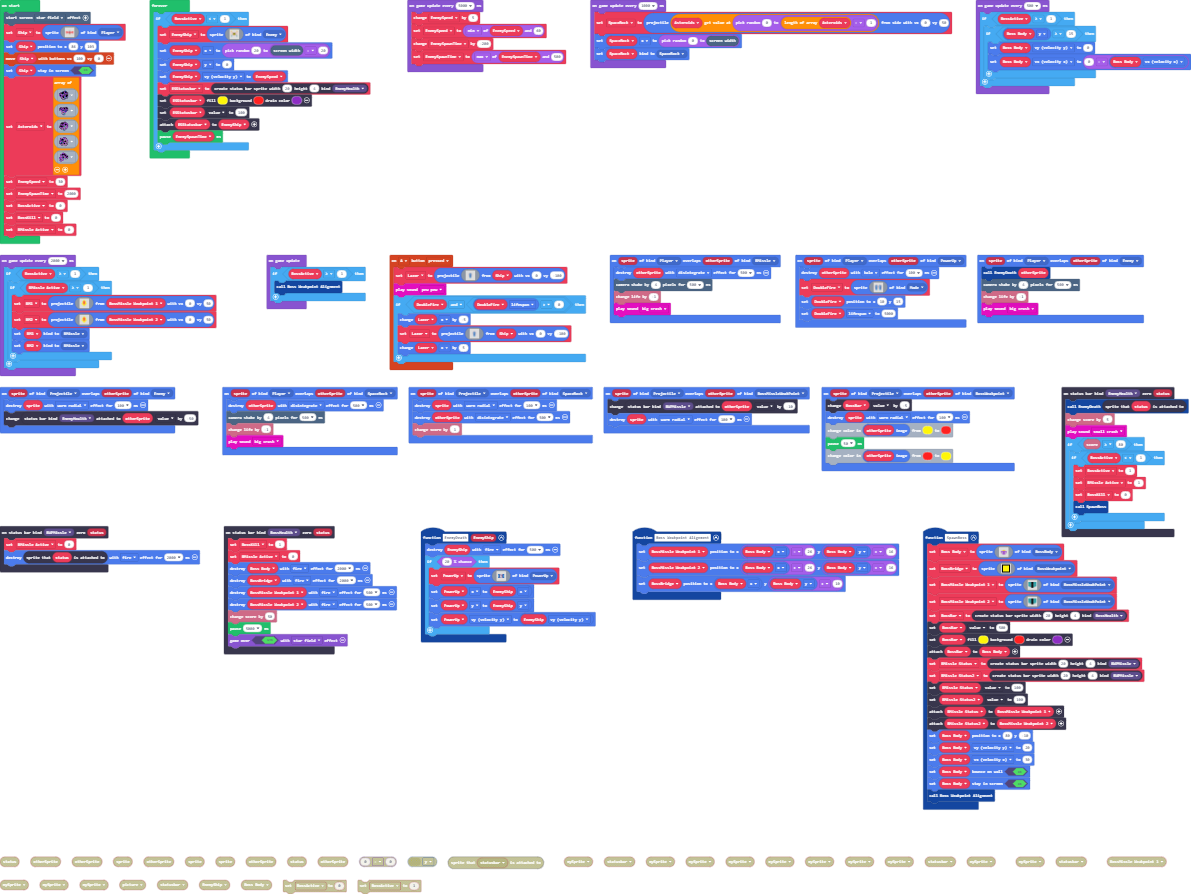
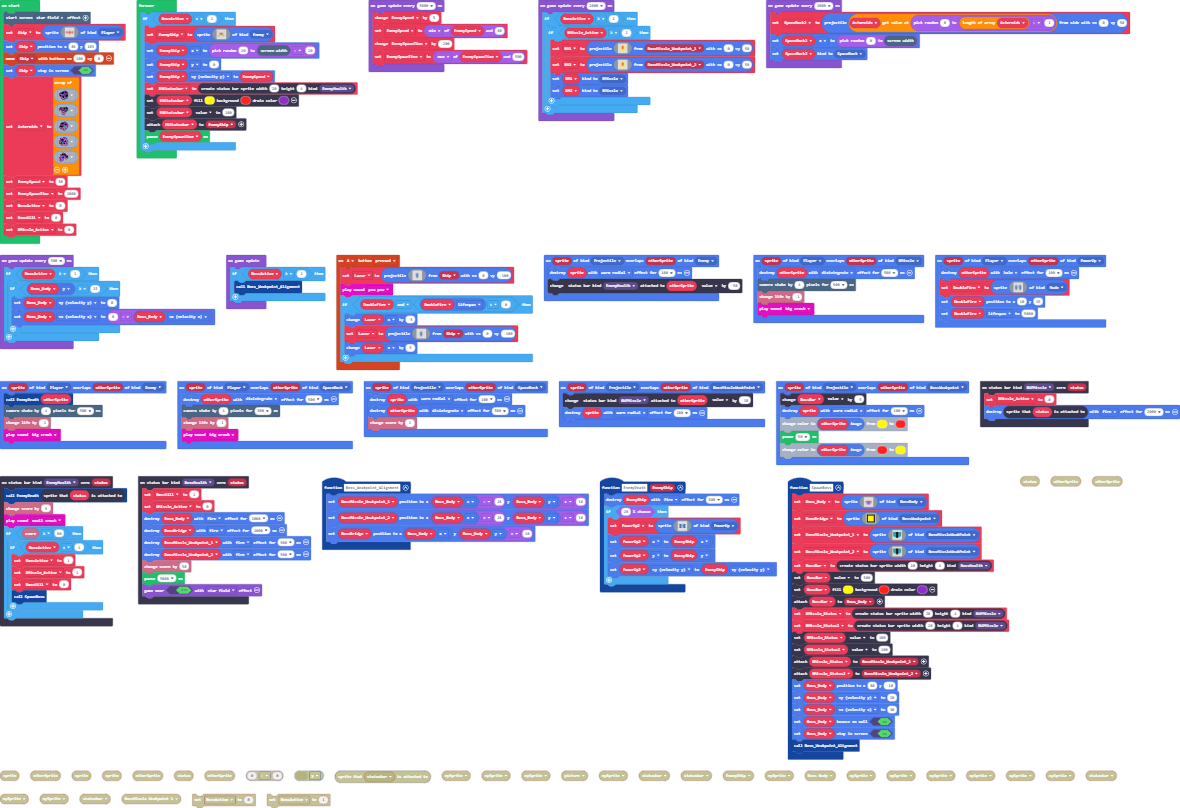
Update main.blocks, main.ts

diff --git a/main.ts b/main.ts
@@ -78,10 +78,10 @@ function SpawnBoss () {
 function EnemyDeath (EnemyShip: Sprite) {
     EnemyShip.destroy(effects.fire, 500)
     if (Math.percentChance(20)) {
-        PowerUp = sprites.create(assets.image`Laser Powerup`, SpriteKind.PowerUp)
-        PowerUp.x = EnemyShip.x
-        PowerUp.y = EnemyShip.y
-        PowerUp.vy = EnemyShip.vy
+        PowerUp2 = sprites.create(assets.image`Laser Powerup`, SpriteKind.PowerUp)
+        PowerUp2.x = EnemyShip.x
+        PowerUp2.y = EnemyShip.y
+        PowerUp2.vy = EnemyShip.vy
     }
 }
 sprites.onOverlap(SpriteKind.Player, SpriteKind.PowerUp, function (sprite, otherSprite) {
@@ -120,15 +120,15 @@ sprites.onOverlap(SpriteKind.Projectile, SpriteKind.BossMissleWeakPoint, functio
     statusbars.getStatusBarAttachedTo(StatusBarKind.BWPMissle, otherSprite).value += -10
     sprite.destroy(effects.warmRadial, 100)
 })
+statusbars.onZero(StatusBarKind.BWPMissle, function (status) {
+    BMissle_Active = 0
+    status.spriteAttachedTo().destroy(effects.fire, 2000)
+})
 function Boss_Weakpoint_Alignment () {
     BossMissle_Weakpoint_1.setPosition(Boss_Body.x - 26, Boss_Body.y + 16)
     BossMissle_Weakpoint_2.setPosition(Boss_Body.x + 26, Boss_Body.y + 16)
     BossBridge.setPosition(Boss_Body.x, Boss_Body.y + 10)
 }
-statusbars.onZero(StatusBarKind.BWPMissle, function (status) {
-    BMissle_Active = 0
-    status.spriteAttachedTo().destroy(effects.fire, 2000)
-})
 sprites.onOverlap(SpriteKind.Projectile, SpriteKind.Enemy, function (sprite, otherSprite) {
     sprite.destroy(effects.warmRadial, 100)
     statusbars.getStatusBarAttachedTo(StatusBarKind.EnemyHealth, otherSprite).value += -50
@@ -141,10 +141,10 @@ sprites.onOverlap(SpriteKind.Player, SpriteKind.Enemy, function (sprite, otherSp
 })
 let ESStatusbar: StatusBarSprite = null
 let EnemyShip: Sprite = null
-let SpaceRock: Sprite = null
+let SpaceRock2: Sprite = null
 let BM2: Sprite = null
 let BM1: Sprite = null
-let PowerUp: Sprite = null
+let PowerUp2: Sprite = null
 let BMissle_Status2: StatusBarSprite = null
 let BMissle_Status: StatusBarSprite = null
 let BossBar: StatusBarSprite = null
@@ -217,9 +217,9 @@ game.onUpdateInterval(2000, function () {
     }
 })
 game.onUpdateInterval(1000, function () {
-    SpaceRock = sprites.createProjectileFromSide(Asteroids[randint(0, Asteroids.length - 1)], 0, 50)
-    SpaceRock.x = randint(0, scene.screenWidth())
-    SpaceRock.setKind(SpriteKind.SpaceRock)
+    SpaceRock2 = sprites.createProjectileFromSide(Asteroids[randint(0, Asteroids.length - 1)], 0, 50)
+    SpaceRock2.x = randint(0, scene.screenWidth())
+    SpaceRock2.setKind(SpriteKind.SpaceRock)
 })
 forever(function () {
     if (BossActive < 1) {
